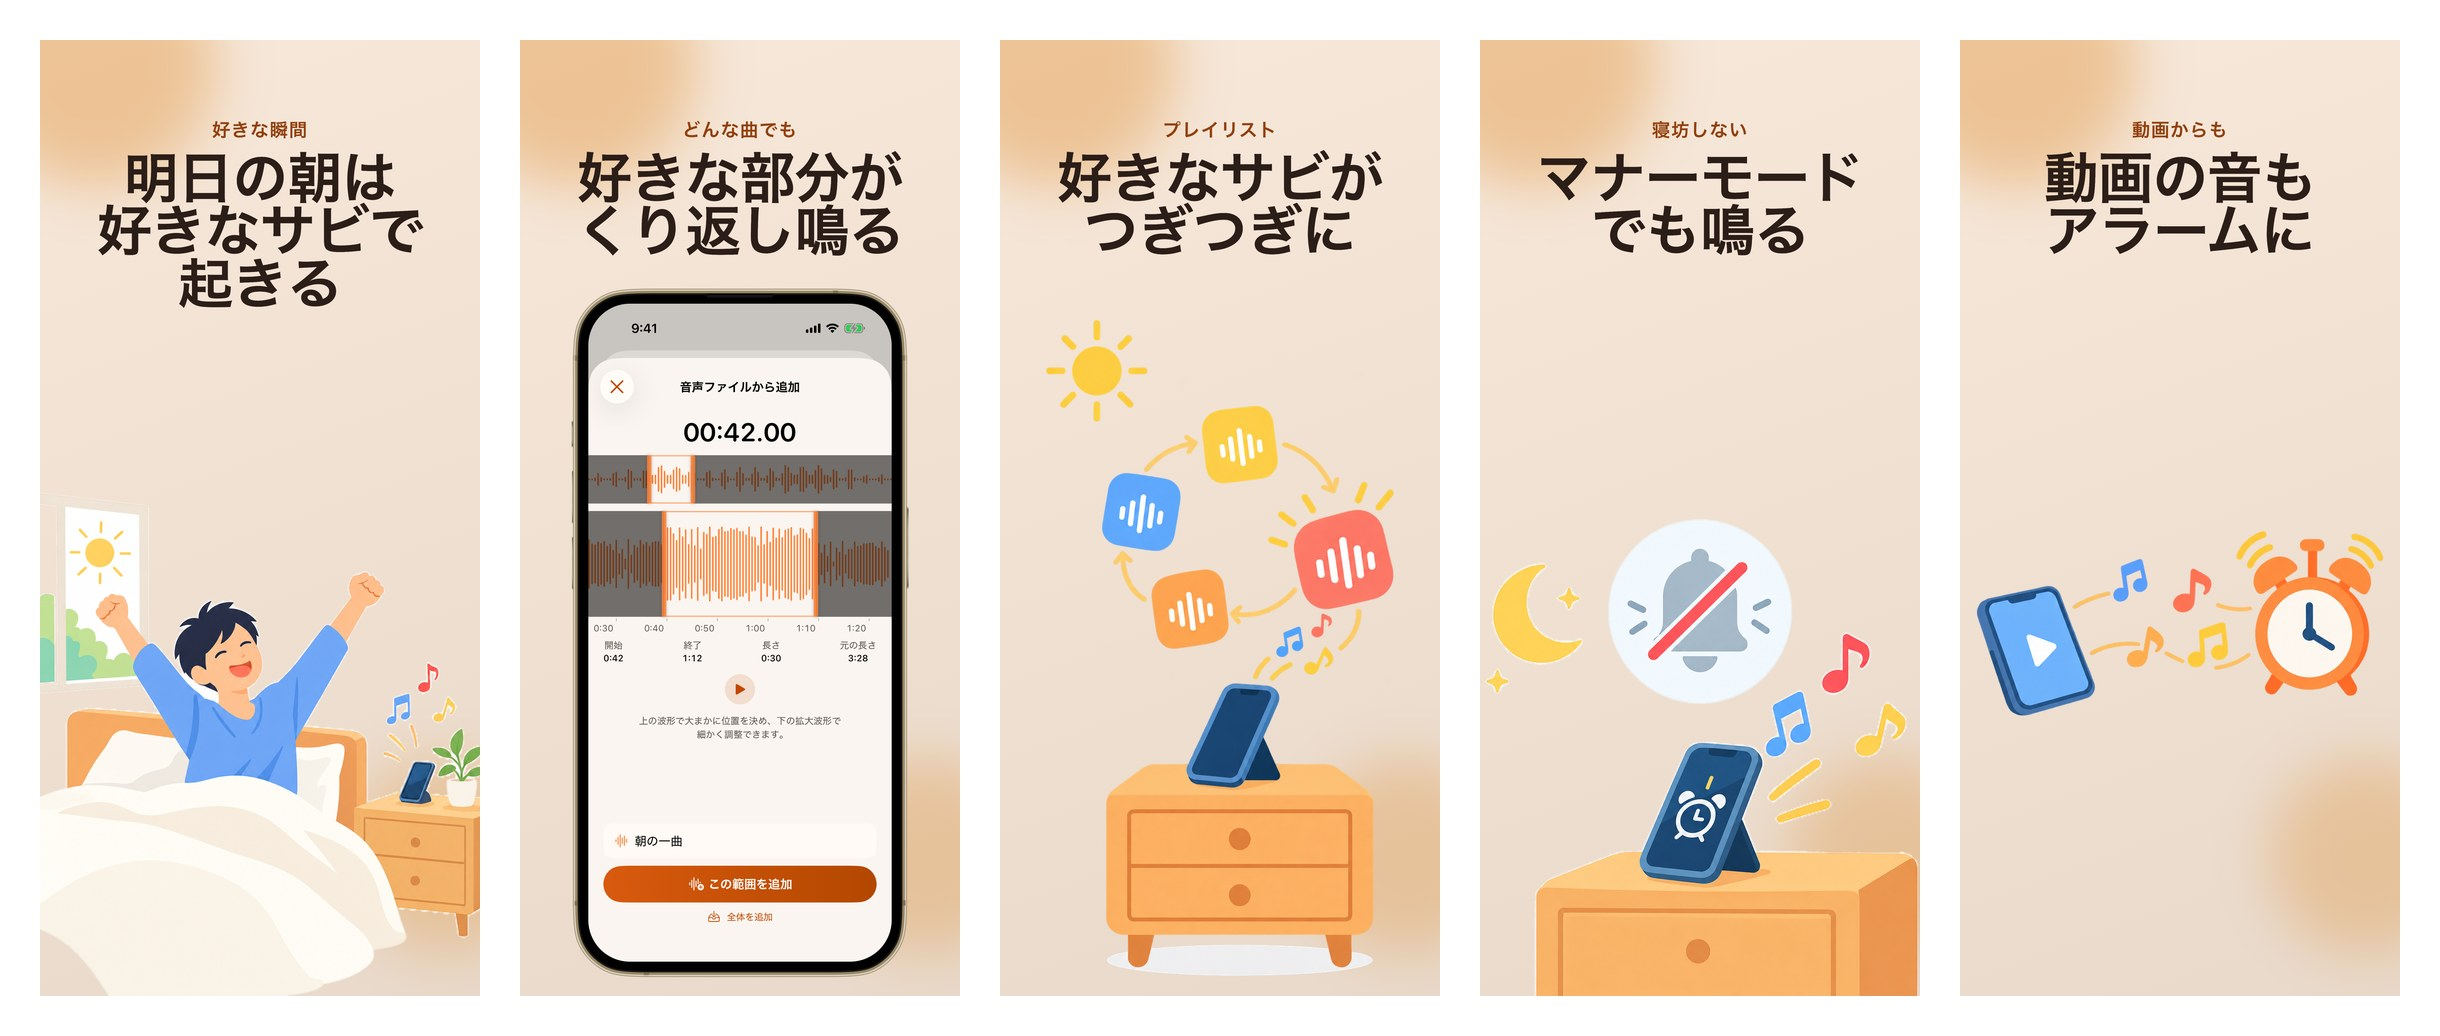
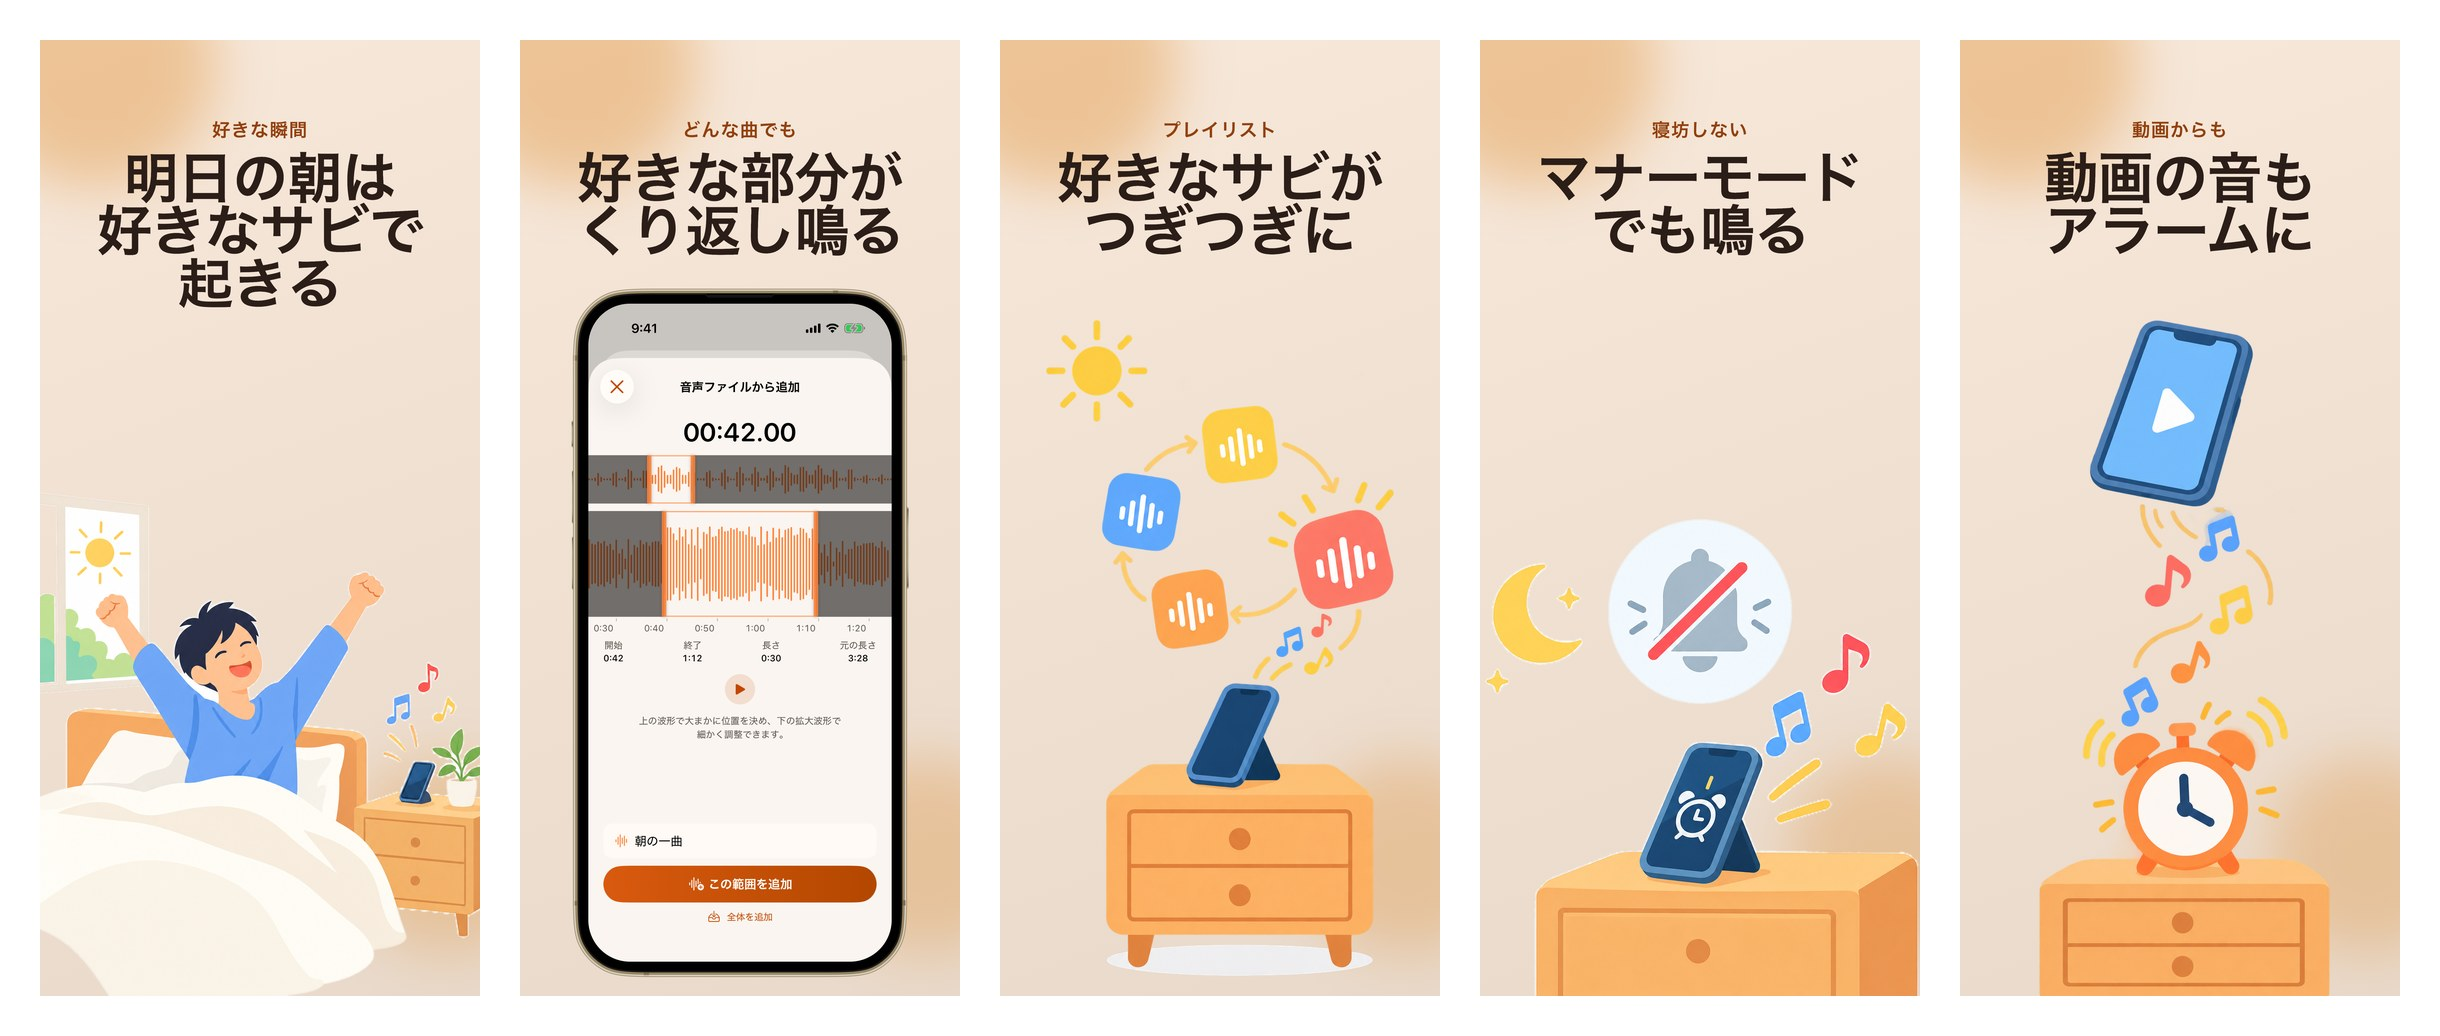
chore(store): vertical video illustration for #5 (#218)
The video-to-alarm art now reads top to bottom and stands on the same
nightstand as #3 and #4, so the screen no longer has a large empty band.

Claude-Session: https://claude.ai/code/session_01H3m5bxJzxYnBapGaqEKWQD

Changed region(s): [[0.8098, 0.3089, 0.9967, 0.9884]]

diff --git a/scripts/store/compose_illustration_slides.py b/scripts/store/compose_illustration_slides.py
@@ -43,7 +43,7 @@ def card(path, box, width, radius=44):
 def place(bg,img,x,y): bg.alpha_composite(img,(int(x),int(y)))
 
 hero=knockout(SC+'onboarding_hero.png'); silent=knockout(SC+'onboarding_silent.png')
-vd=Image.open(SC+'msa-video-illust-v1.png').convert('RGBA'); vd=vd.crop(vd.getchannel('A').point(lambda a:255 if a>20 else 0).getbbox())
+vd=Image.open(SC+'msa-video-illust-v2.png').convert('RGBA')
 pl=Image.open(SC+'msa-playlist-illust-v2.png').convert('RGBA'); pl=pl.crop(pl.getchannel('A').point(lambda a:255 if a>20 else 0).getbbox())
 for l in ['ja','en']:
     # 1
@@ -62,7 +62,7 @@ for l in ['ja','en']:
     bg.convert('RGB').save(OUT+f'{l}-04.png')
     # 5
     bg=Image.open(EX+f'{l}/05-no-device.png').convert('RGBA')
-    vw=1220; v=vd.resize((vw,int(vd.height*vw/vd.width)),Image.LANCZOS); place(bg,v,(W-vw)/2,1750-v.height/2)
+    vh=H-760; v=vd.resize((int(vd.width*vh/vd.height),vh),Image.LANCZOS); place(bg,v,(W-v.width)/2,H-vh)
     bg.convert('RGB').save(OUT+f'{l}-05.png')
     for n,src in [('02','02-device-bottom')]:
         Image.open(EX+f'{l}/{src}.png').convert('RGB').save(OUT+f'{l}-{n}.png')
